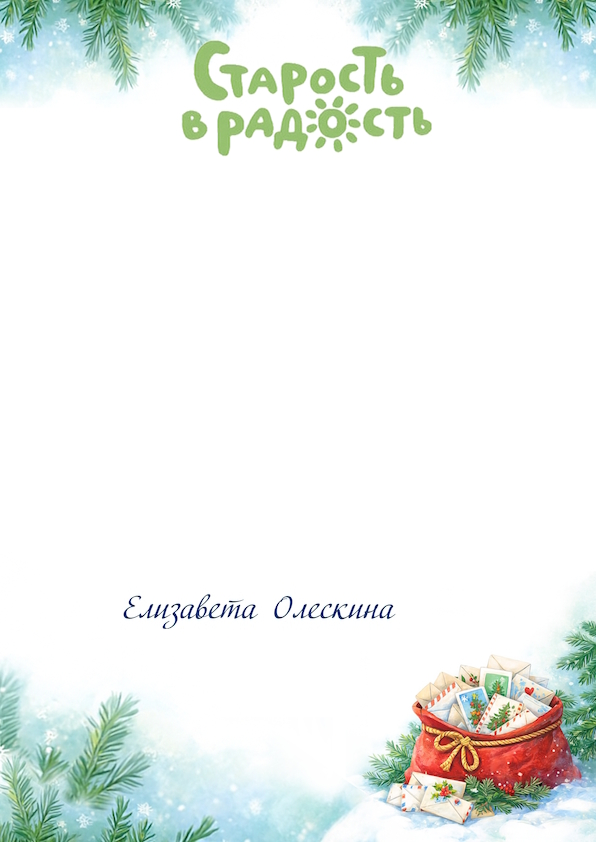
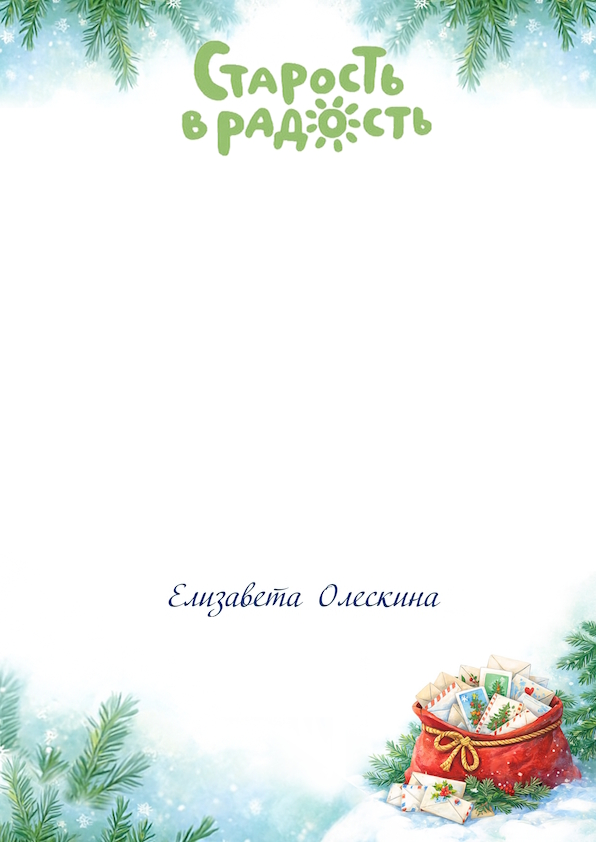
Correction

Changed region(s): [[0.2114, 0.6793, 0.7248, 0.7411]]

diff --git a/src/app/younger/younger.component.ts b/src/app/younger/younger.component.ts
@@ -126,7 +126,7 @@ export class YoungerComponent implements OnInit {
           '.' +
           date.getFullYear();
         ctx.font = '12px Verdana';
-        ctx.textAlign = 'left';
+        //ctx.textAlign = 'left';
        //ctx.fillText('Елизавета Олескина', 157, this.paragraphY+60);
         ctx.fillText('Твой фонд "Старость в радость"', 377, this.paragraphY+40);
         ctx.fillText('Москва, ' + dateString, 377, this.paragraphY+70);
